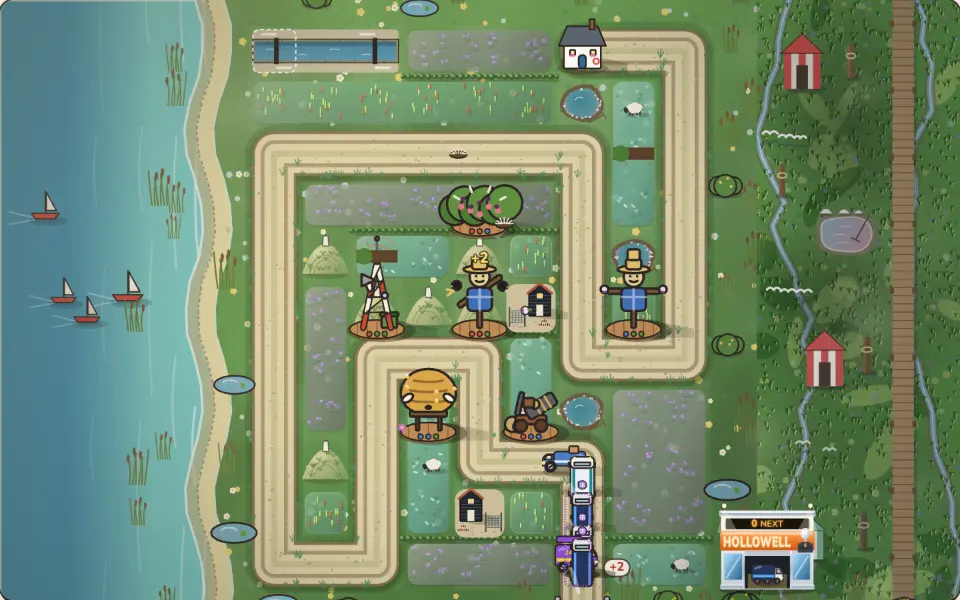
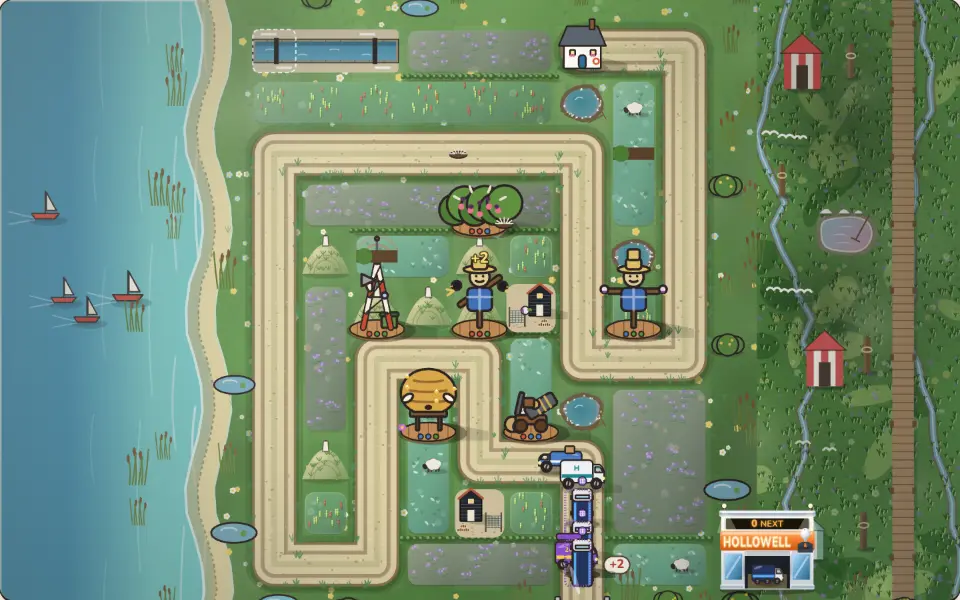
440 slice 4: Hedgerow 2D grade's lit side takes the act's own 3D sun colour (warm in most acts, Saltmarsh's cool sea light; a test keeps the two tables equal); key art re-shot; shadow2d and keyart-fresh pass
Claude-Session: https://claude.ai/code/session_01SimvMPB319cCQgjkucXjGQ

Changed region(s): [[0.5625, 0.75, 0.6562, 0.96]]

diff --git a/games/hedgerow/src/render.ts b/games/hedgerow/src/render.ts
@@ -66,7 +66,7 @@ import {
   castShadow,
   setShadowSun,
 } from "./sprites";
-import { shadowDir } from "./sunlight";
+import { shadowDir, sunRgbFor } from "./sunlight";
 
 /** Plan item 322: a tower on the field is drawn this much over its cell's size. */
 // Plan item 431: 1.4 cells (was 1.2): a tower is the thing worth looking at on the field, not a token on its plot (at
@@ -1516,7 +1516,7 @@ export class Renderer {
       ctx.setLineDash([]);
     }
 
-    this.sunGrade(W, H, shadowDir(level.id));
+    this.sunGrade(W, H, shadowDir(level.id), sunRgbFor(level.id));
     this.ambient(W, H, s, t);
 
     // Boss bar.
@@ -2306,12 +2306,13 @@ export class Renderer {
    * Plan item 440: the field lit by one sun. A warm wash on the act's sun side fading to a cool one on the shadow
    * side (the same direction the cast shadows fall), and a light vignette, so the flat tints read as one lit farm.
    */
-  private sunGrade(W: number, H: number, away: { x: number; y: number }): void {
+  private sunGrade(W: number, H: number, away: { x: number; y: number }, sun: string): void {
     const { ctx } = this;
     const cx = W / 2, cy = H / 2, R = Math.hypot(W, H) / 2;
     const g = ctx.createLinearGradient(cx - away.x * R, cy - away.y * R, cx + away.x * R, cy + away.y * R);
-    g.addColorStop(0, "rgba(255,206,128,0.13)");
-    g.addColorStop(0.5, "rgba(255,206,128,0)");
+    // the lit side takes the act's own sun (warm in most acts, Saltmarsh's cool sea light)
+    g.addColorStop(0, `rgba(${sun},0.16)`);
+    g.addColorStop(0.5, `rgba(${sun},0)`);
     g.addColorStop(0.5, "rgba(46,58,96,0)");
     g.addColorStop(1, "rgba(46,58,96,0.12)");
     ctx.fillStyle = g;

diff --git a/games/hedgerow/src/sunlight.ts b/games/hedgerow/src/sunlight.ts
@@ -5,6 +5,16 @@
 /** Each act's sun azimuth in degrees, as in the 3D palette: the sun sits at (cos az, sin az) in (x, row) from the centre. */
 export const ACT_SUN_AZ: readonly number[] = [140, 120, 200, 230, 250, 170, 270, 210, 190, 300];
 
+/** Plan item 440: each act's sun colour, as the 3D palette's `sun` (a test keeps the two equal): the 2D grade's lit side. */
+export const ACT_SUN_COLOUR: readonly string[] = ["#fff1d0", "#ffe2a8", "#f4fbff", "#f2f6ea", "#ffe7b0", "#ffffff", "#ffad70", "#fff0d8", "#e8f0ff", "#ffb070"];
+
+/** The act's sun colour as "r,g,b" for an rgba() wash. */
+export function sunRgbFor(levelId: number): string {
+  const hex = ACT_SUN_COLOUR[Math.min(ACT_SUN_COLOUR.length - 1, Math.max(0, Math.floor((levelId - 1) / 10)))]!;
+  const n = parseInt(hex.slice(1), 16);
+  return `${(n >> 16) & 255},${(n >> 8) & 255},${n & 255}`;
+}
+
 export function sunAzFor(levelId: number): number {
   return ACT_SUN_AZ[Math.min(ACT_SUN_AZ.length - 1, Math.max(0, Math.floor((levelId - 1) / 10)))]!;
 }

diff --git a/tests/hedgerow-shadow2d.test.ts b/tests/hedgerow-shadow2d.test.ts
@@ -1,6 +1,6 @@
 import { describe, expect, it } from 'vitest'
 import { ACT_LIGHT } from '../games/hedgerow/src/render3d/palette'
-import { ACT_SUN_AZ, shadowDir } from '../games/hedgerow/src/sunlight'
+import { ACT_SUN_AZ, ACT_SUN_COLOUR, shadowDir } from '../games/hedgerow/src/sunlight'
 import { drawEnemy, drawFarmhouse, drawHero, drawTower, setShadowSun } from '../games/hedgerow/src/sprites'
 import { drawFarmyard } from '../games/hedgerow/src/render'
 
@@ -35,6 +35,8 @@ const centroid = (pts: Array<[number, number]>) => pts.reduce((a, [x, y]) => [a[
 describe('Hedgerow 2D cast shadows (plan item 370)', () => {
   it("each act's 2D sun is the 3D palette's", () => {
     expect(ACT_SUN_AZ).toEqual(ACT_LIGHT.map((l) => l.sunAz))
+    // Plan item 440: the 2D grade's lit side is the act's 3D sun colour
+    expect(ACT_SUN_COLOUR).toEqual(ACT_LIGHT.map((l) => l.sun))
   })
   for (const level of [5, 21, 34, 45, 65]) {
     const dir = shadowDir(level)
